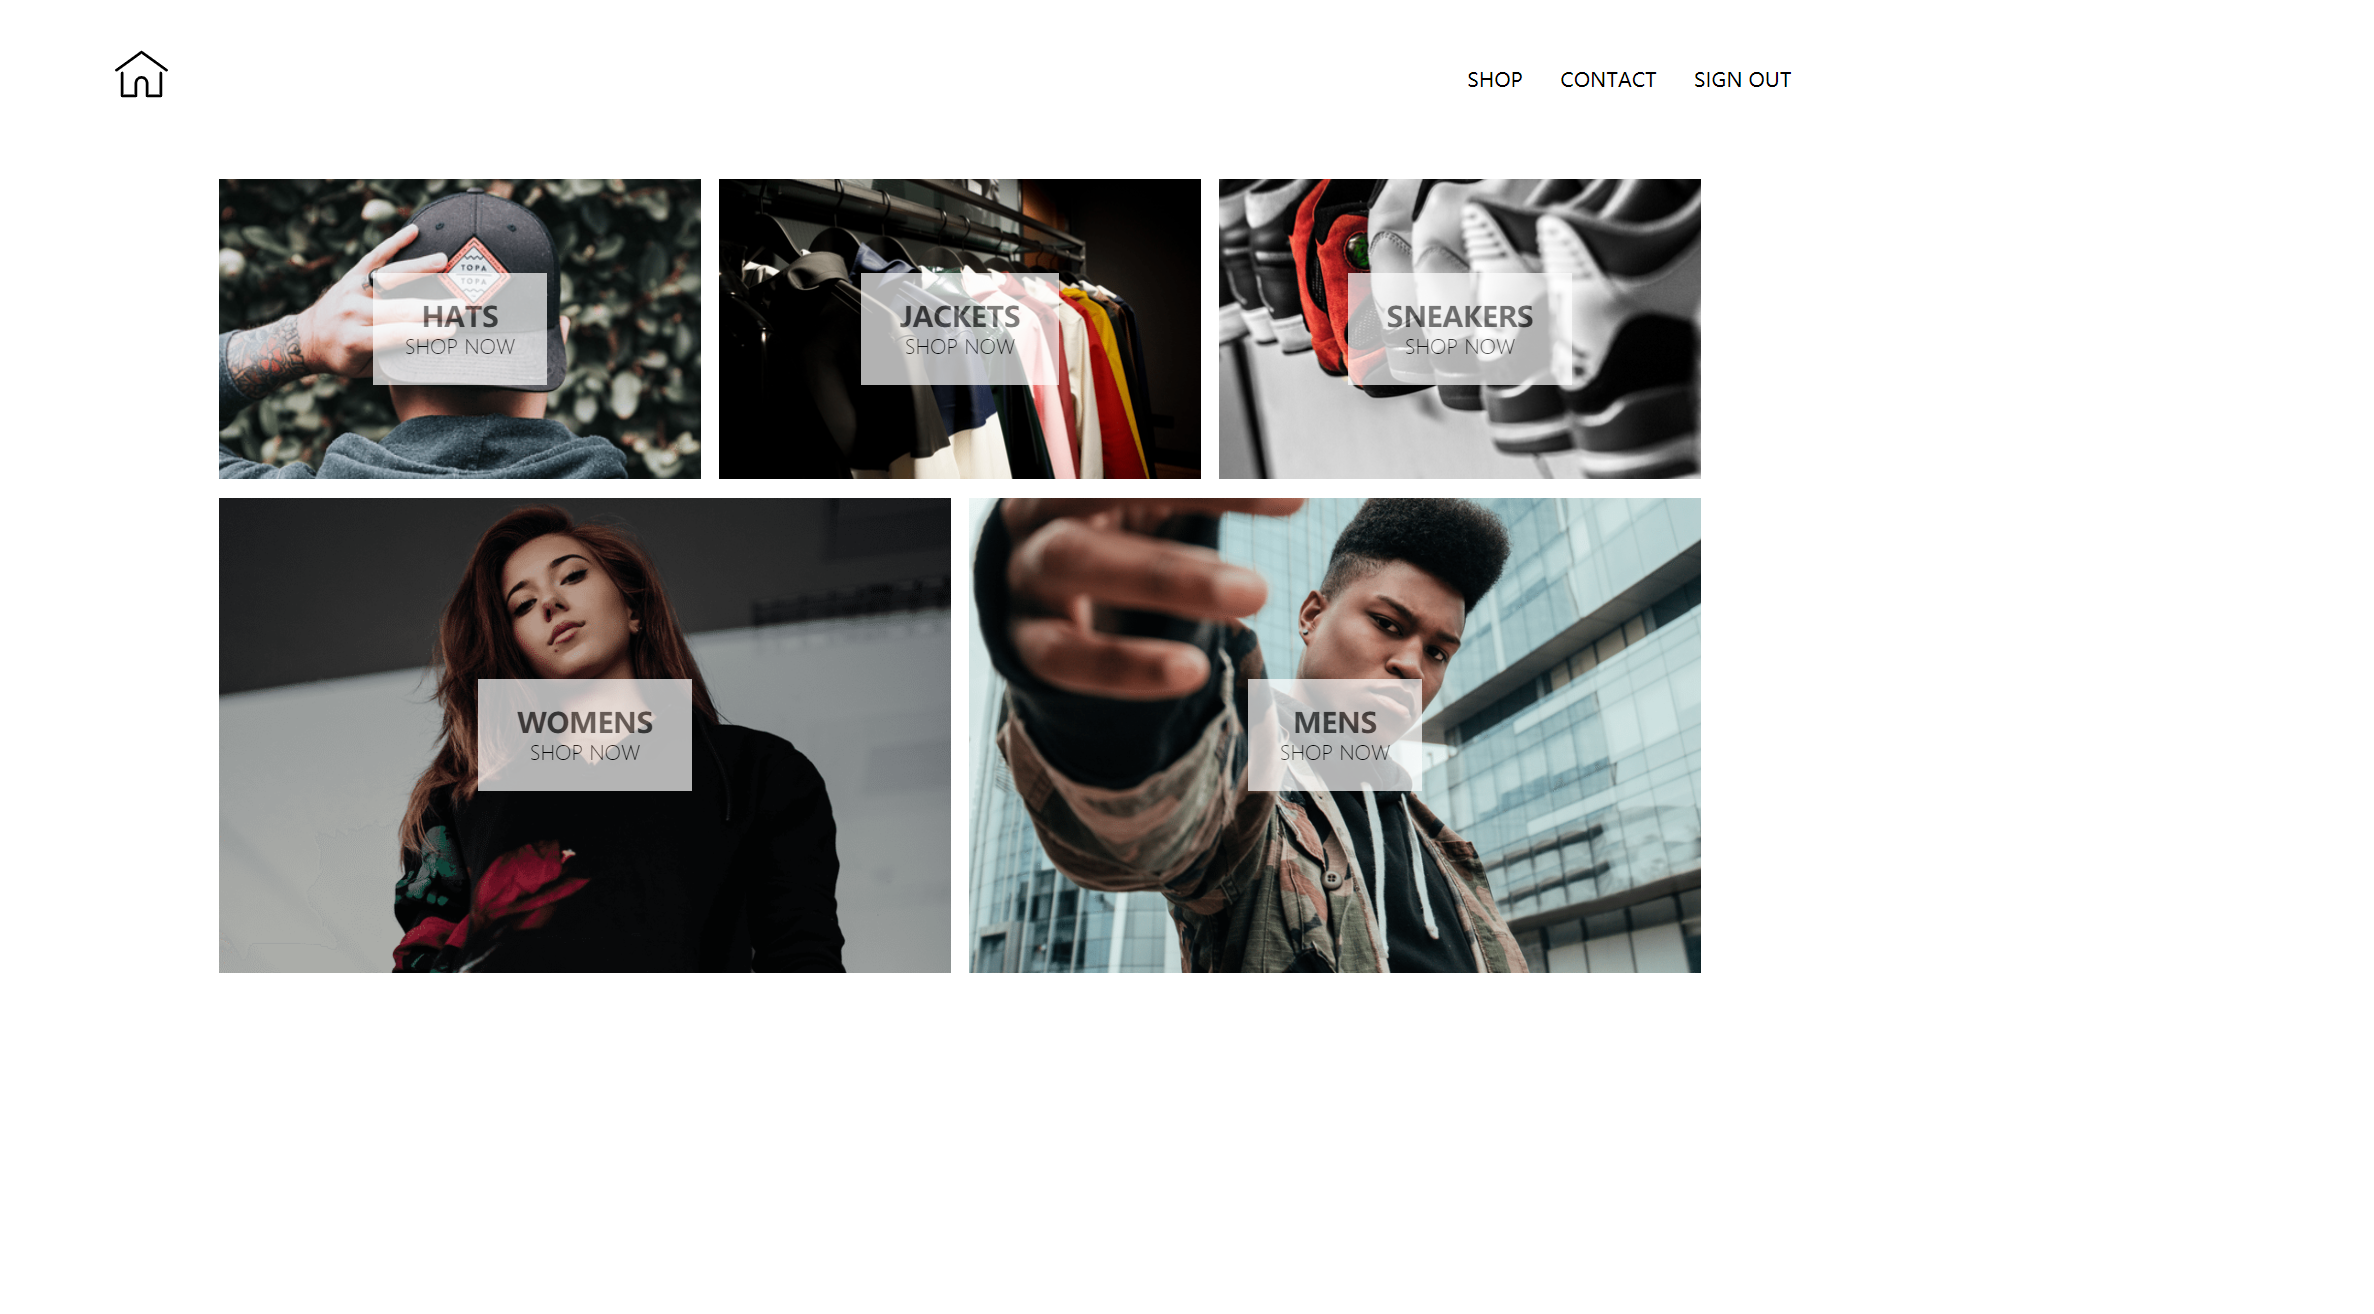
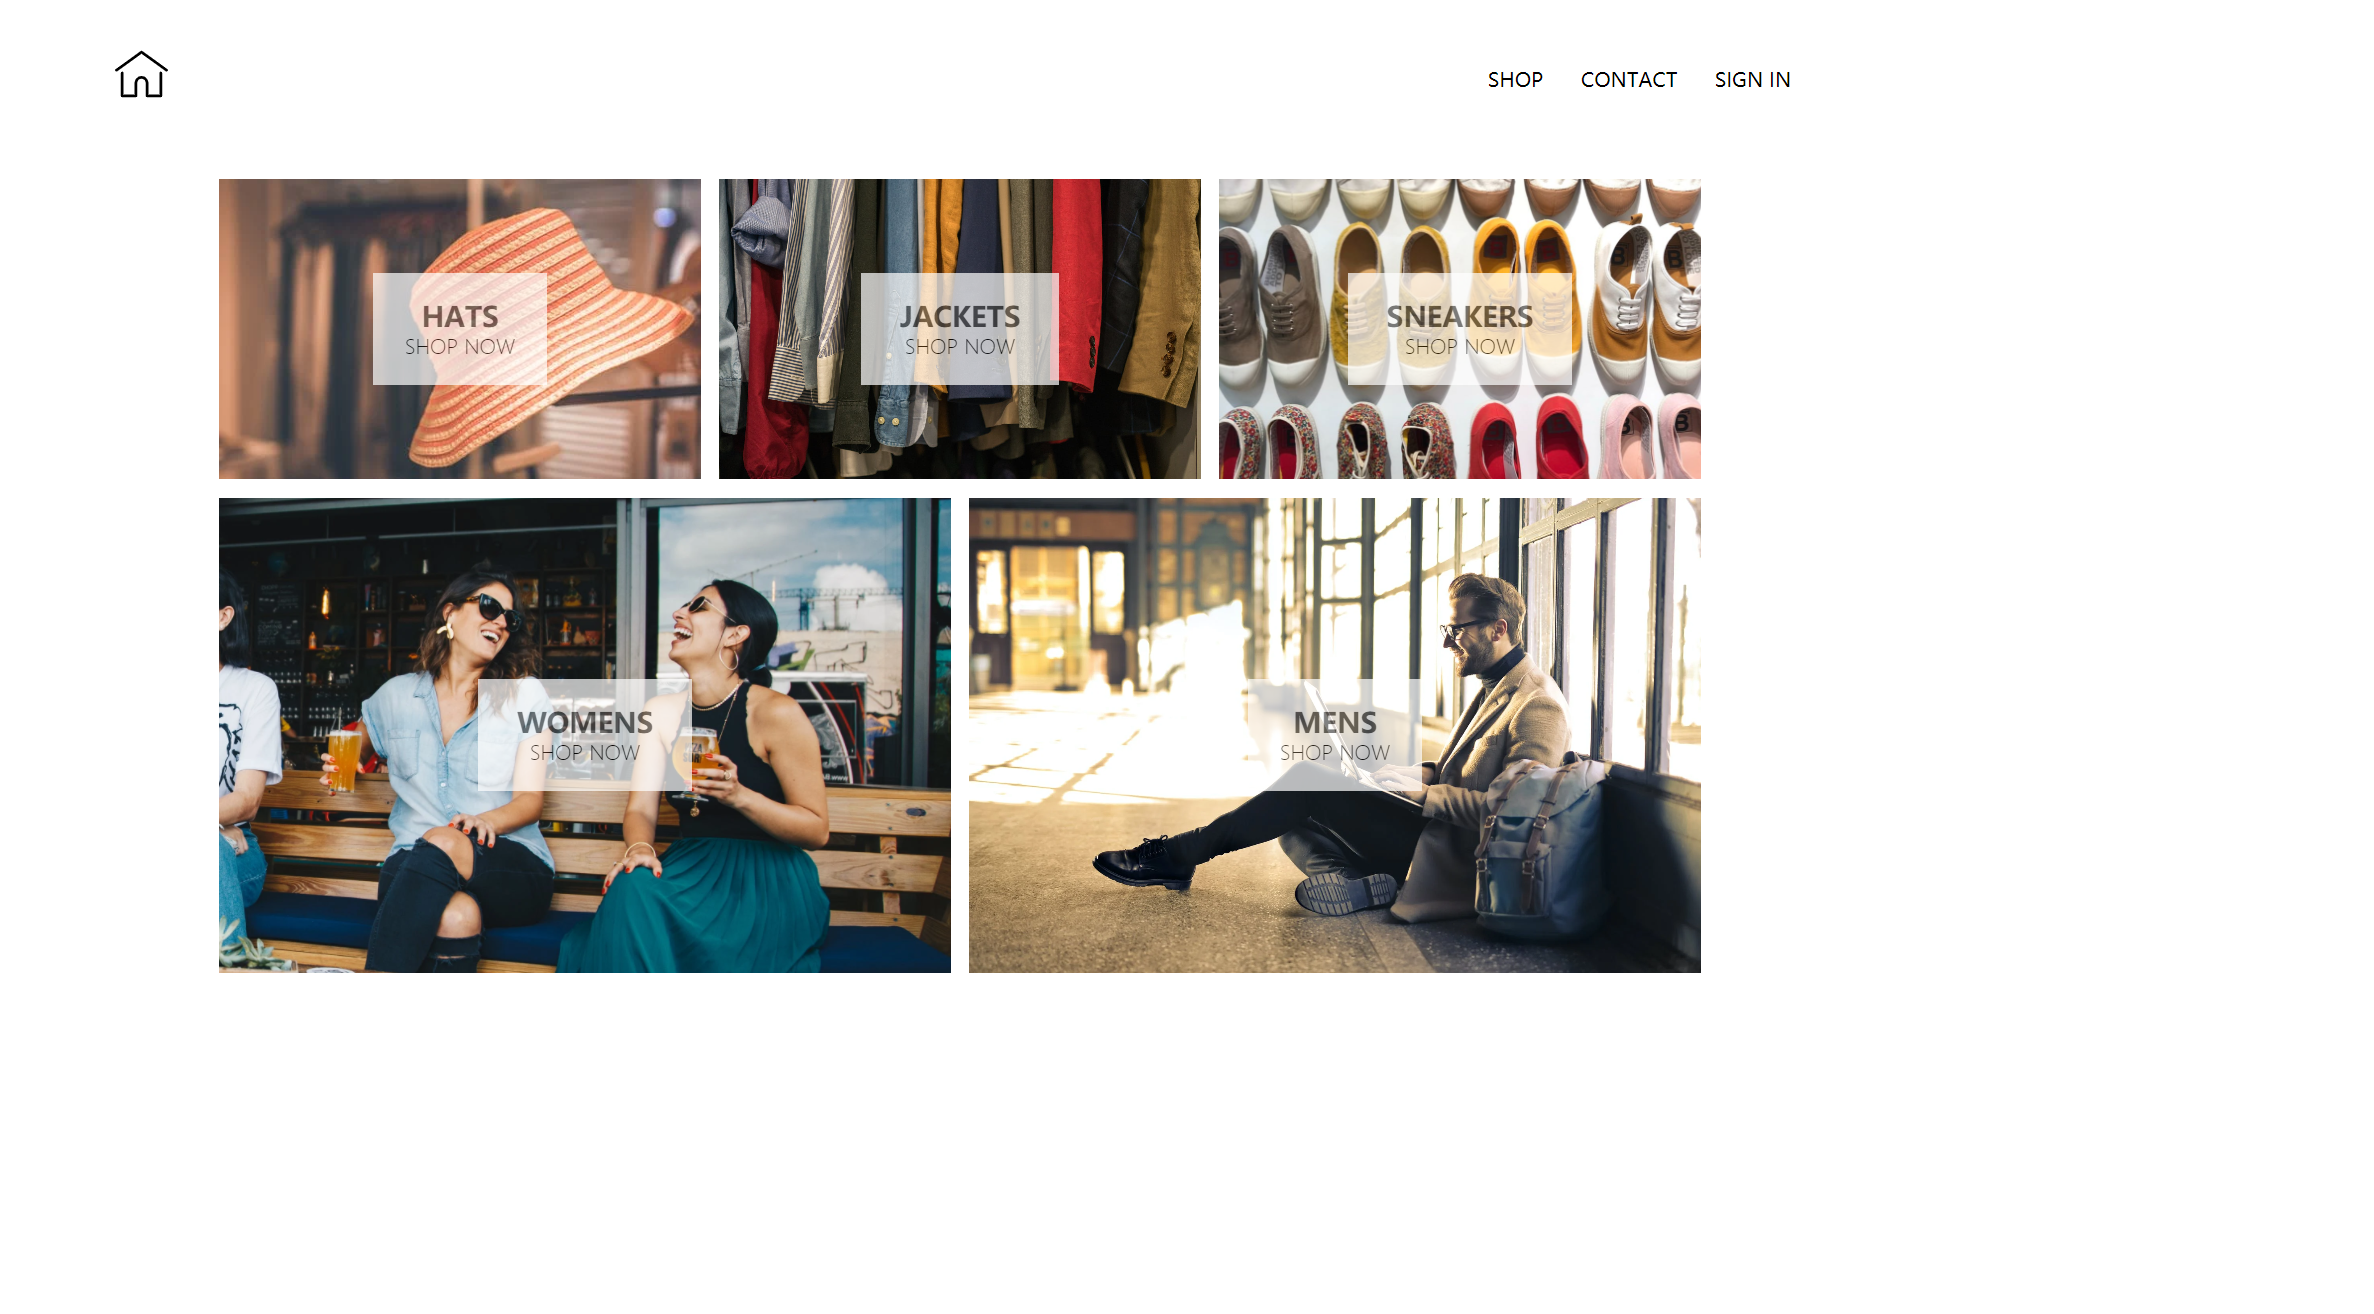
change pictures of homepage

diff --git a/src/components/directory/directory.component.jsx b/src/components/directory/directory.component.jsx
@@ -10,32 +10,32 @@ class Directory extends React.Component {
       sections: [
         {
           title: "hats",
-          imageUrl: "https://i.ibb.co/cvpntL1/hats.png",
+          imageUrl: "https://images.pexels.com/photos/1078975/pexels-photo-1078975.jpeg?auto=compress&cs=tinysrgb&dpr=1&w=500",
           id: 1,
           linkUrl: "hats",
         },
         {
           title: "jackets",
-          imageUrl: "https://i.ibb.co/px2tCc3/jackets.png",
+          imageUrl: "https://images.pexels.com/photos/1336873/pexels-photo-1336873.jpeg?auto=compress&cs=tinysrgb&dpr=2&h=650&w=940",
           id: 2,
           linkUrl: "",
         },
         {
           title: "sneakers",
-          imageUrl: "https://i.ibb.co/0jqHpnp/sneakers.png",
+          imageUrl: "https://images.pexels.com/photos/2918534/pexels-photo-2918534.jpeg?auto=compress&cs=tinysrgb&dpr=2&h=650&w=940",
           id: 3,
           linkUrl: "",
         },
         {
           title: "womens",
-          imageUrl: "https://i.ibb.co/GCCdy8t/womens.png",
+          imageUrl: "https://images.pexels.com/photos/1267696/pexels-photo-1267696.jpeg?auto=compress&cs=tinysrgb&dpr=2&h=650&w=940",
           size: "large",
           id: 4,
           linkUrl: "",
         },
         {
           title: "mens",
-          imageUrl: "https://i.ibb.co/R70vBrQ/men.png",
+          imageUrl: "https://images.pexels.com/photos/838413/pexels-photo-838413.jpeg?auto=compress&cs=tinysrgb&dpr=2&h=650&w=940",
           size: "large",
           id: 5,
           linkUrl: "",
